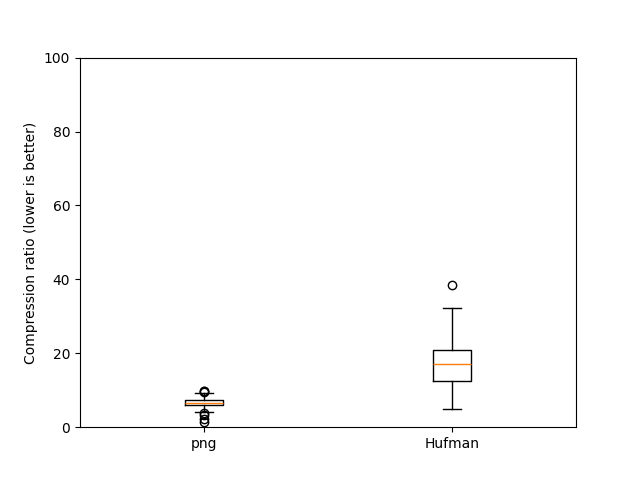
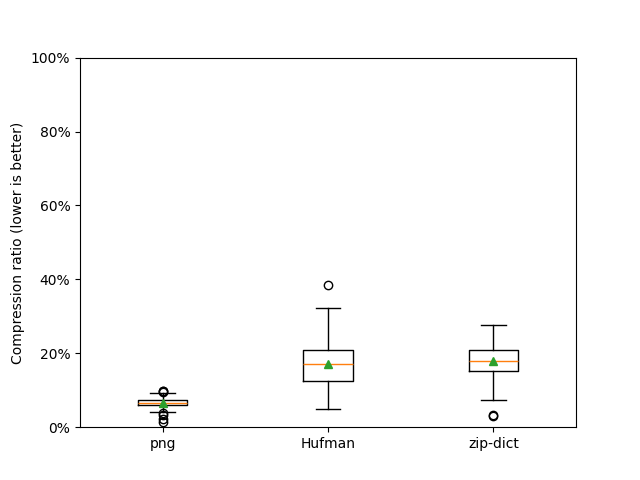
Generate the diagrams with the zip-dict encoder

diff --git a/boxplot.py b/boxplot.py
@@ -3,6 +3,7 @@ import os
 import glob
 import pandas as pd
 import matplotlib.pyplot as plt
+import matplotlib.ticker as ticker
 
 csv_folder = 'output/'
 
@@ -13,19 +14,24 @@ data = []
 
 for csv_path in glob.glob(csv_folder + "*.csv"):
     csv_data = pd.read_csv(csv_path)
-    data.append(csv_data["compression_ratio"])
+    # Only keep the lossless codecs
+    if not "error" in csv_data or csv_data["error"].mean() == 0:
+        data.append(csv_data["compression_ratio"])
 
-    # Go from 'dir/filename.csv' to 'filename'
-    file_name = os.path.split(csv_path)[1]
-    display_name = os.path.splitext(file_name)[0]
-    names.append(display_name)
+        # Go from 'dir/filename.csv' to 'filename'
+        file_name = os.path.split(csv_path)[1]
+        display_name = os.path.splitext(file_name)[0]
+        names.append(display_name)
 
 # Generate the plot
 
+ax = plt.gca()
+
 plt.ylabel('Compression ratio (lower is better)')
 plt.ylim(0, 100)
+ax.yaxis.set_major_formatter(ticker.FuncFormatter(lambda y, _: '{:g}'.format(y)+'%'))
 
-plt.gca().set_xticklabels(names)
+ax.set_xticklabels(names)
 
 plt.boxplot(data, showmeans=True)
 plt.savefig("output/boxplot.png")
